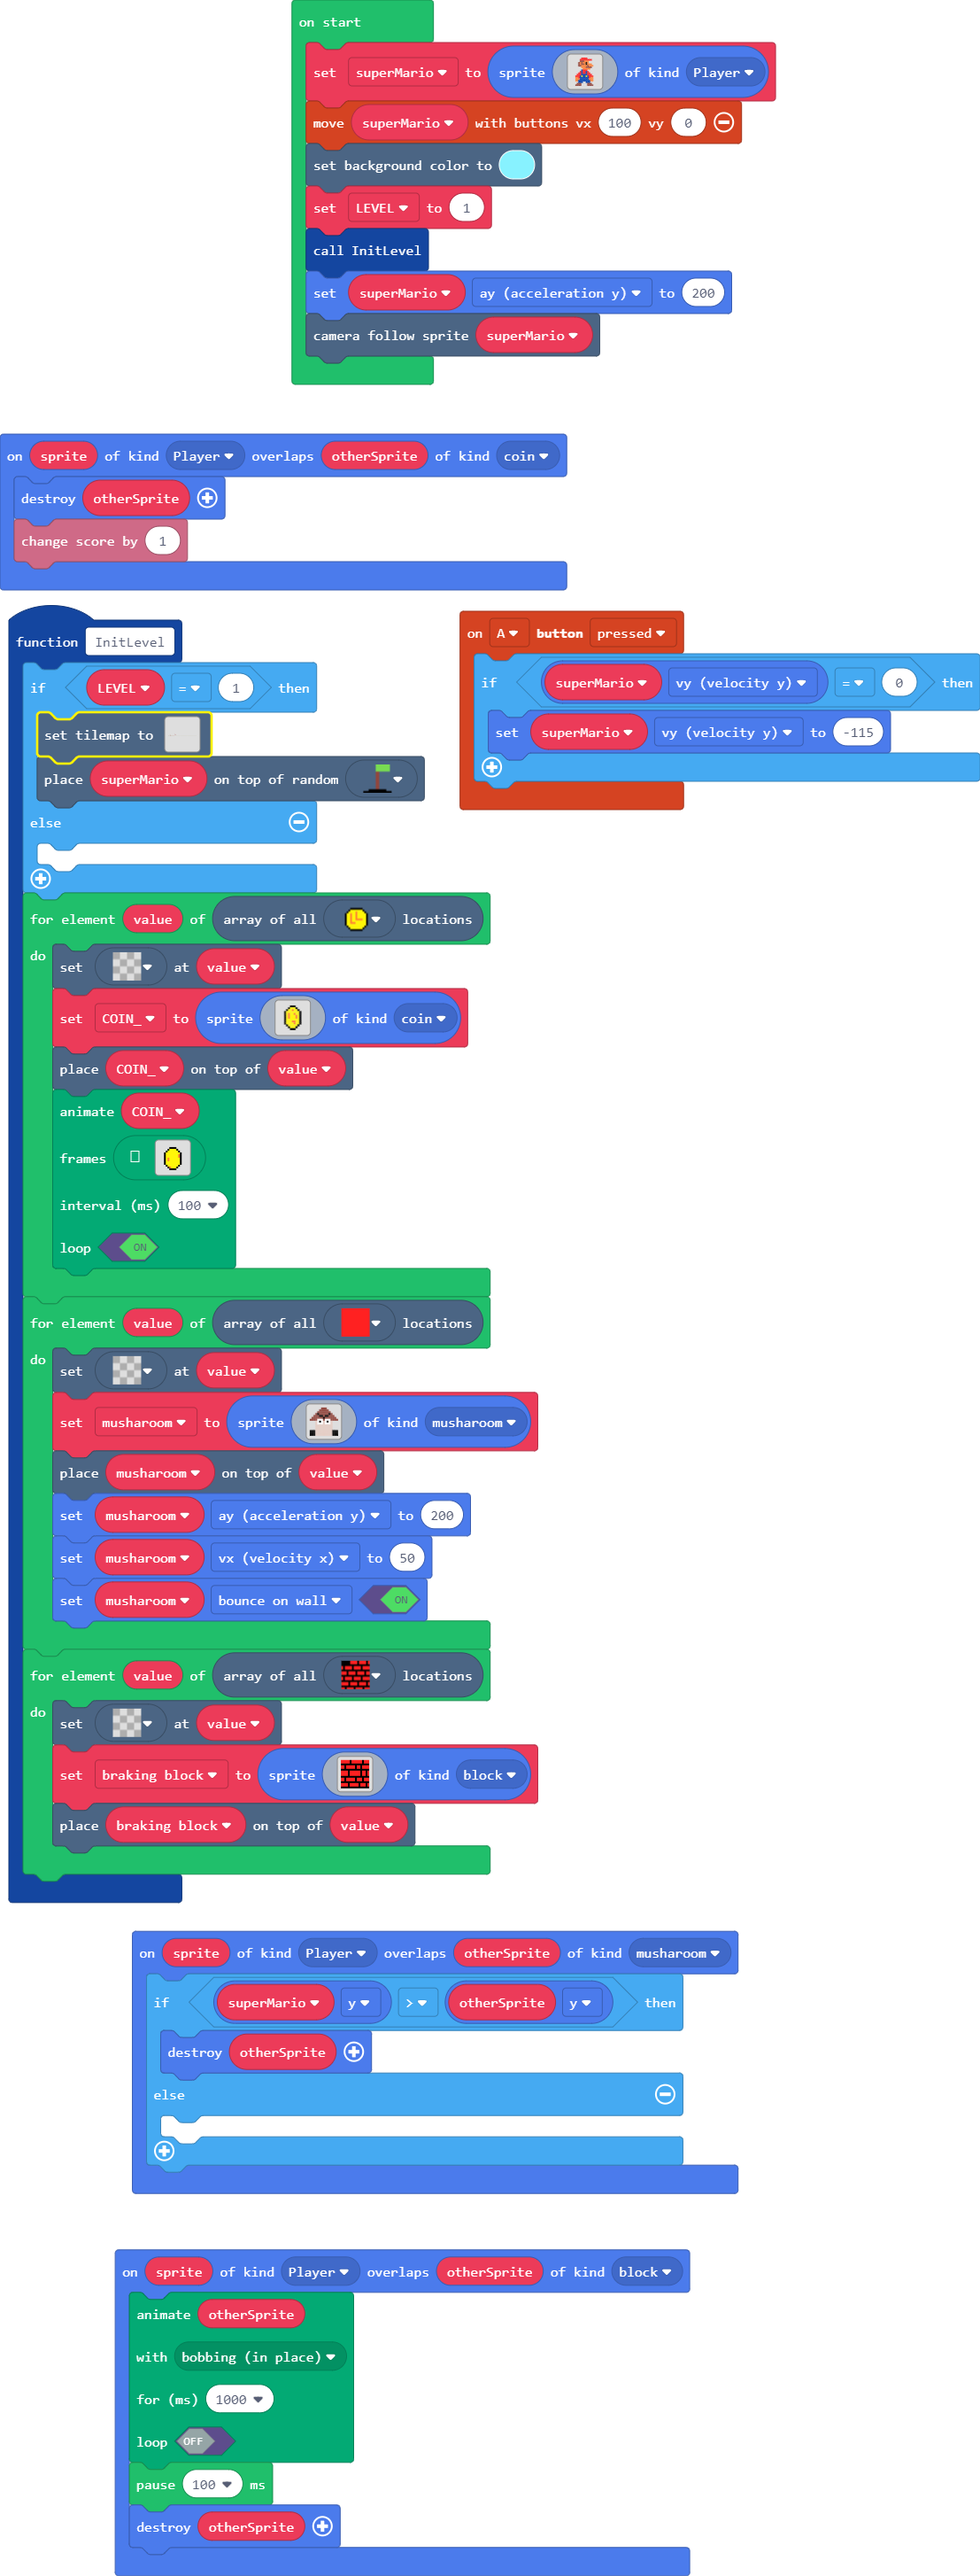
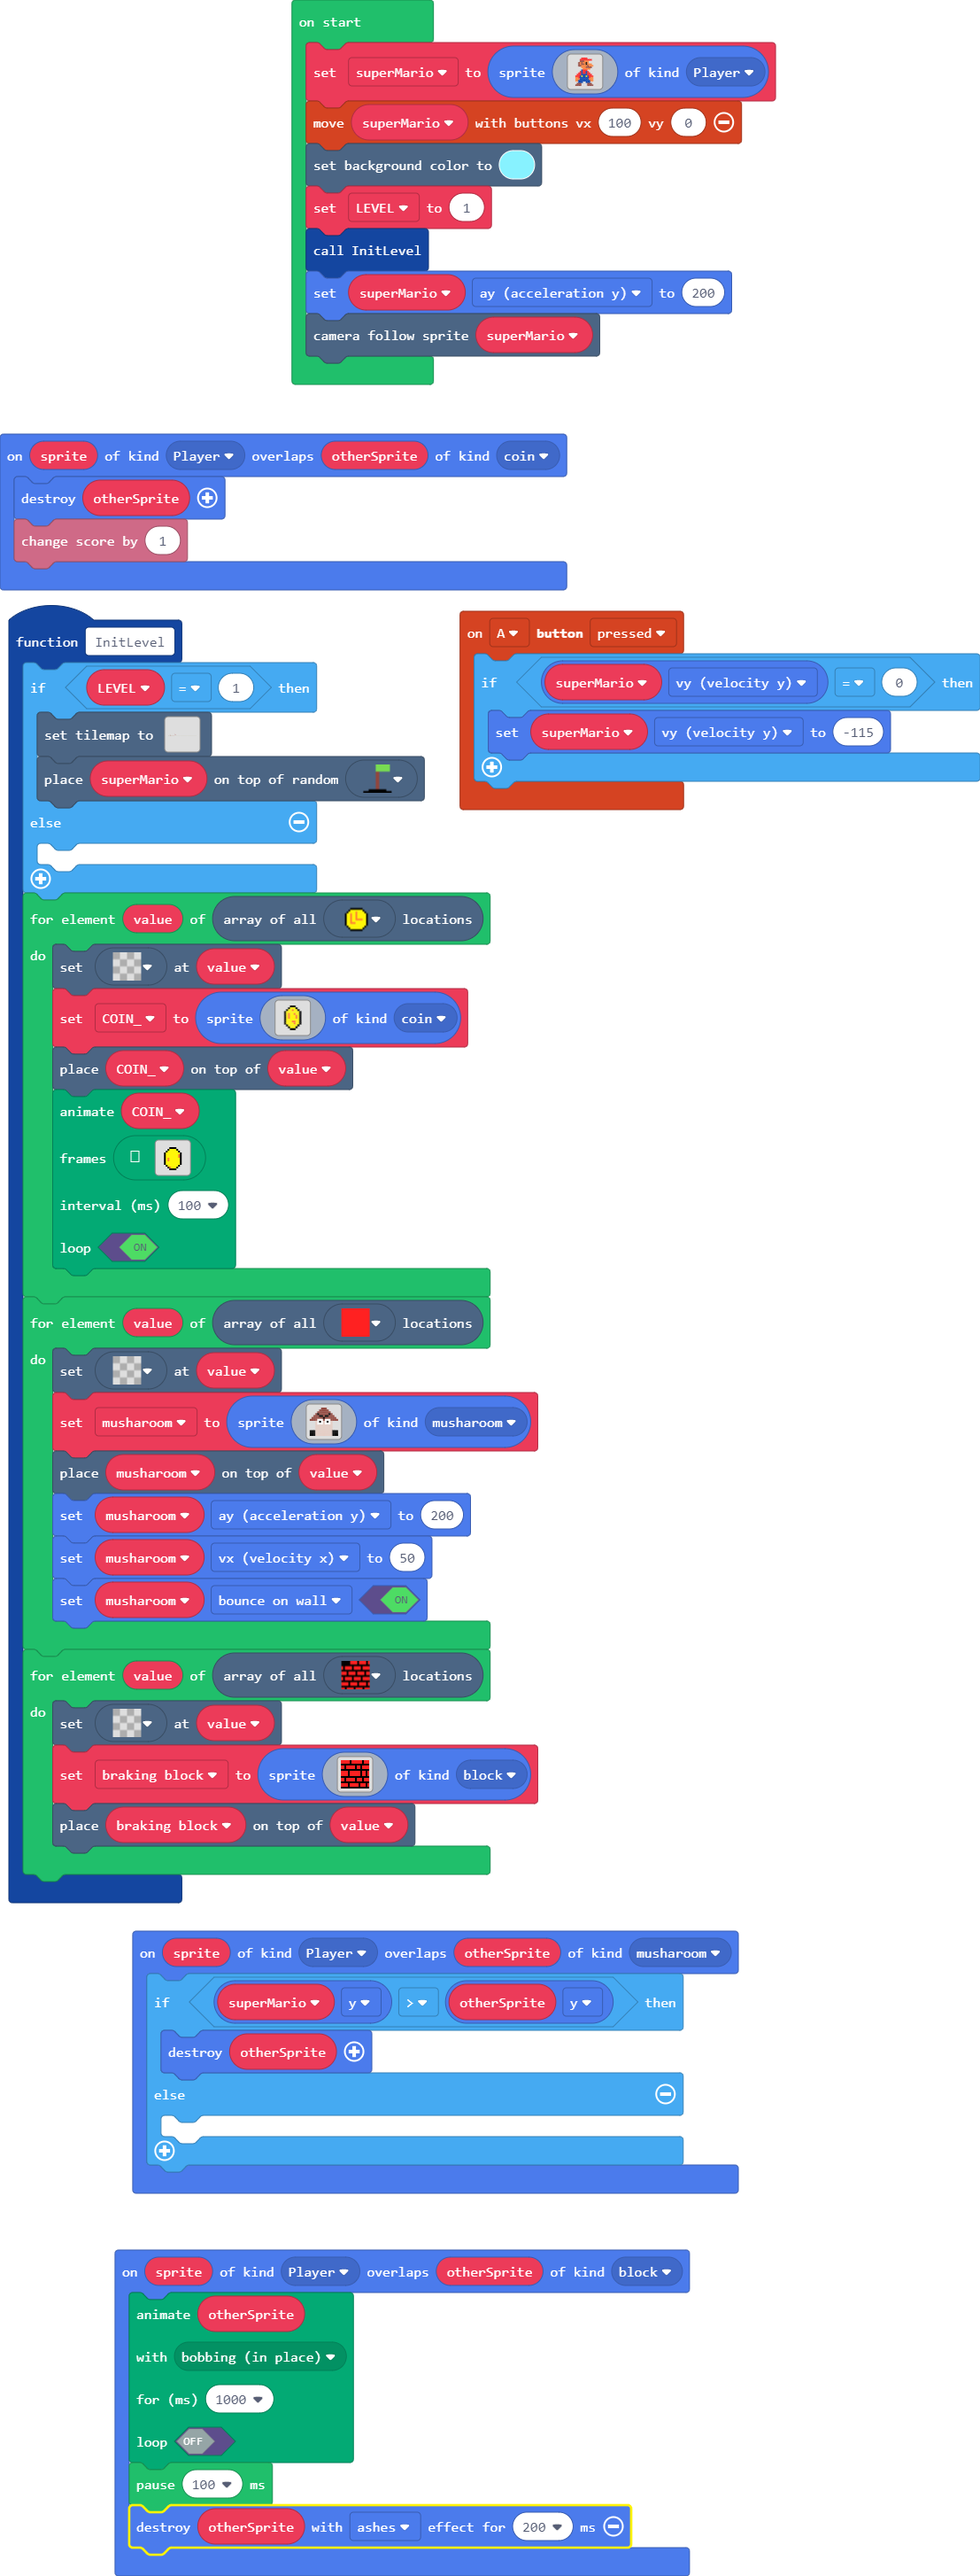
ANIMATE

Changed region(s): [[0.1229, 0.9594, 0.645, 0.9904], [0.215, 0.8975, 0.3071, 0.9285], [0.3379, 0.6809, 0.3686, 0.7118]]

diff --git a/main.ts b/main.ts
@@ -136,7 +136,7 @@ sprites.onOverlap(SpriteKind.Player, SpriteKind.block, function (sprite, otherSp
     false
     )
     pause(100)
-    otherSprite.destroy()
+    otherSprite.destroy(effects.ashes, 200)
 })
 sprites.onOverlap(SpriteKind.Player, SpriteKind.musharoom, function (sprite, otherSprite) {
     if (superMario.y > otherSprite.y) {
